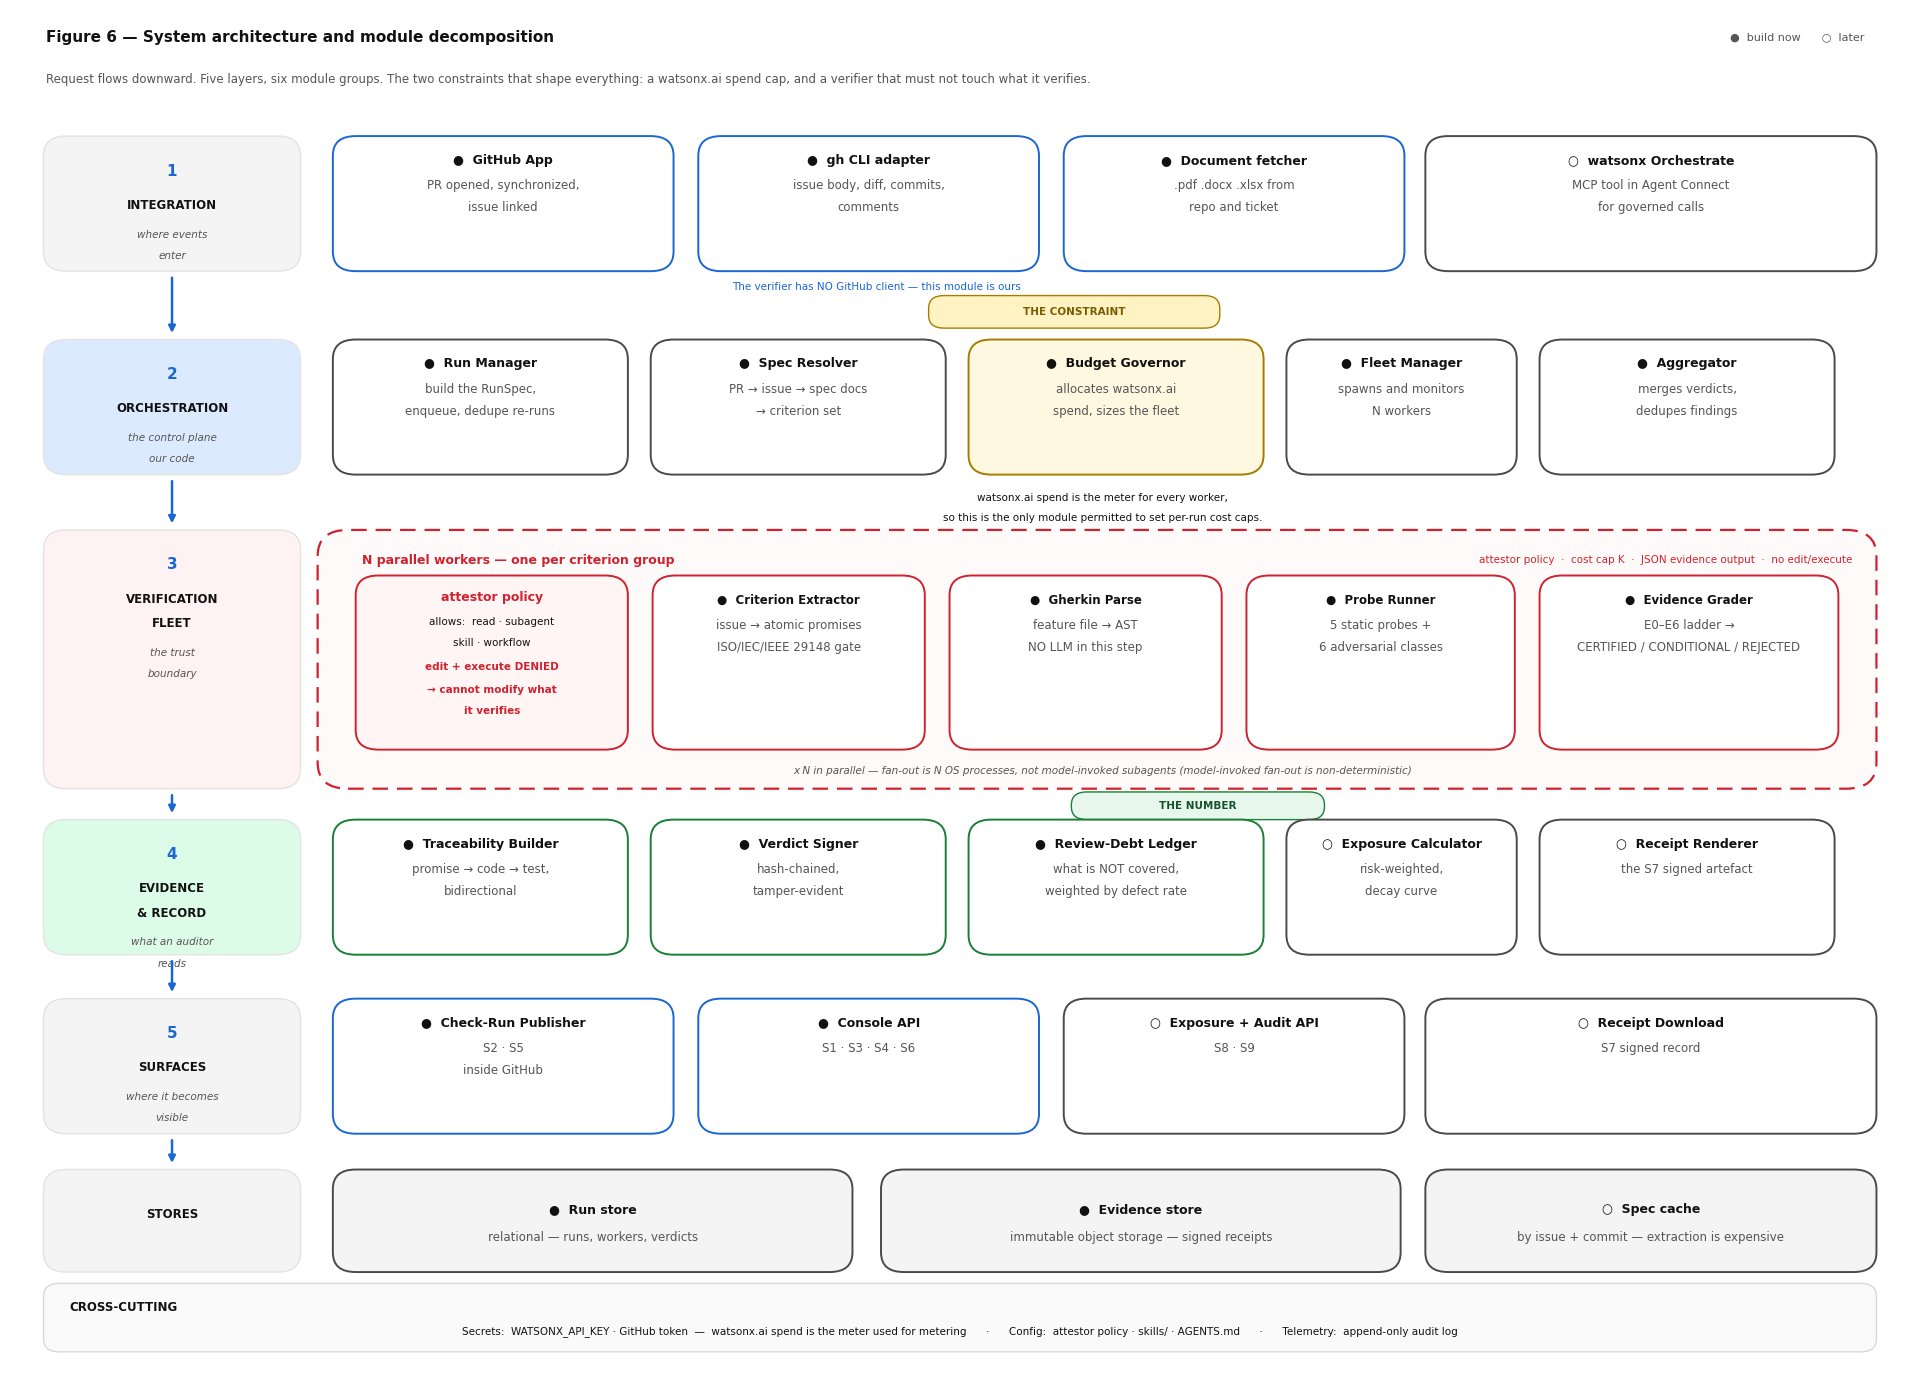
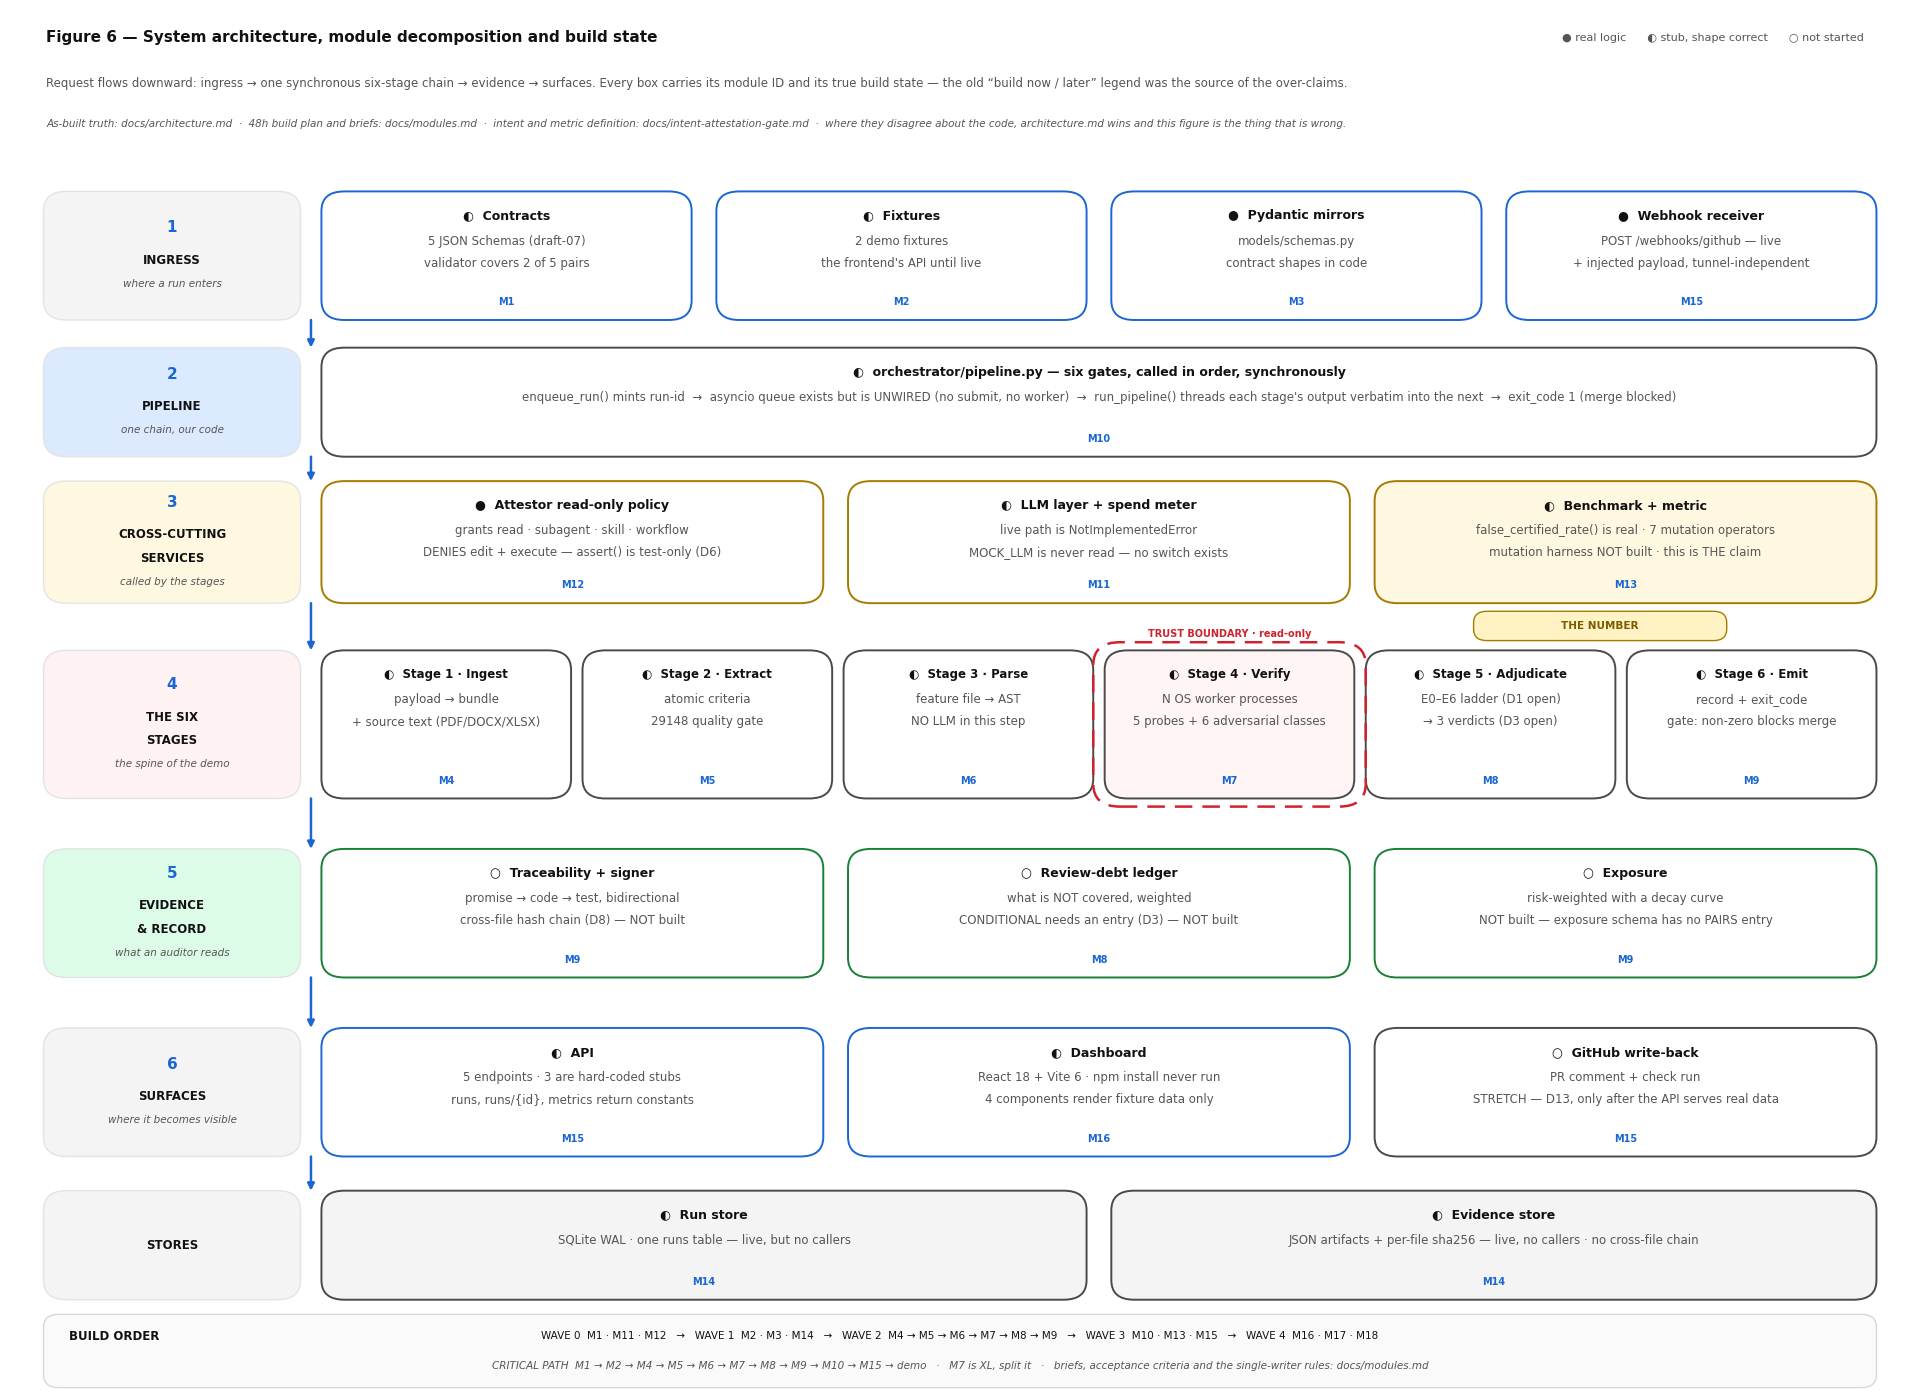
Docs: unify Figure 6 with architecture.md and modules.md
The diagram, the code record and the build plan described three different
systems. Figure 6 was the outlier: it had a *plan* legend (build now / later)
where it needed a *state* legend, so 14 boxes claimed "build now" including
GitHub App, a gh CLI adapter, an immutable object store and Check-Run
Publisher -- none of which exist, and the last of which is D13, a stretch.

Figure 6 (regenerated):
- Markers are now real logic / stub / not started, so it can never over-claim.
- Every box carries its module ID (M1-M16) plus its docs/modules.md wave.
  M1 and M2 stay separate boxes: modules.md 0.4 makes each the single writer
  of a different path, and one "M1 M2" box read as one owner.
- Added the Benchmark + metric box (M13). This closes the gap recorded at
  section 1 since Session 7: the false-certified rate and the 7 spec-mutation
  operators appeared nowhere in the figure.
- Added contracts, fixtures, Pydantic mirrors, the LLM layer and the attestor
  policy; added a build-order strip (waves + critical path) so the figure is
  a development map, not only a pitch collage.
- Removed as unbacked: watsonx Orchestrate (rejected -- its IBM Cloud default
  model is Groq-hosted, which breaks the watsonx.ai-only rule), GitHub App,
  gh CLI adapter, Spec cache, Receipt Renderer, Receipt Download.
- The precedence rule is printed on the figure, so a reader of the PNG alone
  knows architecture.md wins for as-built facts.

architecture.md:
[…]

diff --git a/docs/architecture.md b/docs/architecture.md
@@ -29,10 +29,25 @@ Async execution path (`backend/app/orchestrator/jobs.py`: in-process `asyncio.Qu
 without calling `submit()`, and nothing ever starts `worker()`. The synchronous
 `run_pipeline()` is the only path exercised (by `tests/test_scaffold.py`).
 
-Figure 6 (`docs/Figure-6-System-Architecture.png`) is the visual twin of this shape:
-6 stage boxes, `attestor` policy box, Budget Governor metering note, traceability /
-signer / ledger / exposure / receipt surfaces. Known figure gaps (kept as-is from
-Session 7/10): false-certified rate + 7 mutation classes appear nowhere in the figure.
+Figure 6 (`docs/Figure-6-System-Architecture.png`) is the visual map of this shape,
+generated by `gen_fig6_architecture.py` (never hand-edited). **Regenerated
+2026-09-27** to agree with this file and with `docs/modules.md`: every box now
+carries its module ID (M1–M18) and a build-state marker, and the two long-standing
+figure gaps are closed — the false-certified rate and the 7 spec-mutation
+operators now appear, as the **Benchmark + metric** box, and the over-claimed
+*build-now/later* markers were replaced by *real / stub / not started*.
+
+Boxes removed as unbacked: watsonx Orchestrate (rejected — its IBM Cloud default
+model is Groq-hosted, which breaks the watsonx.ai-only rule), GitHub App, gh CLI
+adapter, Spec cache, Receipt Renderer, Receipt Download. GitHub write-back stays
+but is marked `○` because **D13** makes it a stretch. Boxes added: contracts /
+fixtures, Pydantic mirrors, the LLM layer, the attestor policy, and the build-order
+strip carrying the waves and critical path.
+
+> Precedence, printed on the figure itself: **this file wins for as-built facts**,
+> `docs/intent-attestation-gate.md` wins for intent, and `docs/modules.md` owns the
+> gap between them. If the figure and this file ever disagree about the code, the
+> figure is what is wrong.
 
 ## 2. Entry point
 
@@ -57,7 +72,7 @@ at `/` **only if that directory exists** (API-first otherwise).
 | Stage 1 Ingest | `backend/app/gates/ingest.py::run(payload)` | stub: `{"stage": "ingest", "ok": True, "input_keys": sorted(payload.keys())}` |
 | Stage 2 Extract | `backend/app/gates/extract.py::run(bundle)` | stub: `{"stage": "extract", "ok": True, "criteria": []}`. Spec: atomic criteria, ISO/IEC/IEEE 29148 quality gate, untestable rejected |
 | Stage 3 Parse | `backend/app/gates/parse.py::run(criteria)` | stub: `{"stage": "parse", "ok": True, "ast": []}`. Spec: cucumber/gherkin → AST, **no model in this loop** |
-| Stage 4 Verify | `backend/app/gates/verify.py::run(ast)` | stub: `{"stage": "verify", "ok": True, "findings": []}`. Spec: N workers (OS processes, not model subagents), 5 static probes (`CODE_SEARCH`, `LOGIC_TRACE`, `STATE_CHECK`, `ERROR_PATH`, `ABSENCE_CHECK`) + adversarial pass over 7 failure classes; LLM via watsonx.ai only |
+| Stage 4 Verify | `backend/app/gates/verify.py::run(ast)` | stub: `{"stage": "verify", "ok": True, "findings": []}`. Spec: N workers (OS processes, not model subagents), 5 static probes (`CODE_SEARCH`, `LOGIC_TRACE`, `STATE_CHECK`, `ERROR_PATH`, `ABSENCE_CHECK`) + adversarial pass over **6 named** failure classes (boundary · omission · contradiction · implicit · negative · concurrency); LLM via watsonx.ai only |
 | Stage 5 Adjudicate | `backend/app/gates/adjudicate.py::run(findings)` | stub: `{"stage": "adjudicate", "ok": True, "verdict": "PENDING"}`. Spec: E0–E6 ladder → `CERTIFIED` / `CONDITIONAL` / `REJECTED` |
 | Stage 6 Emit+gate | `backend/app/gates/emit.py::run(verdict)` | stub: `{"stage": "emit", "ok": True, "exit_code": 1, "record": verdict}`. Spec: traceability matrix, signed hash-chained record, debt ledger, risk-weighted exposure; non-zero exit blocks merge |
 | Read-only policy | `backend/app/attestor/policy.py` — `GRANTS={read,subagent,skill,workflow}`, `DENIES={edit,execute}`, `assert_read_only(granted)` | raises `PermissionError` on leaked denies or missing grants. Enforced in tests only today, not in the pipeline path (see §11) |
@@ -98,7 +113,14 @@ No auth, no SSE/polling, no GitHub comment/check-run write-back yet (all were ol
 ## 7. LLM layer + spend discipline
 
 - All verification reasoning goes through `llm/watsonx_client.py::complete()`. No other model call sites exist.
-- `MOCK_LLM=true` selects `mock_client` (deterministic, zero spend). Live path without `WATSONX_API_KEY` fails loud with `RuntimeError` (fixture-backed fallback, never silent).
+- **Dual-mode is declared but not wired.** `MOCK_LLM` is read *nowhere* in `backend/app` — not by
+  either client, not by the pipeline, not by any router. `config.py` parses it, `watsonx_client.py`
+  only names it in its error string, and `mock_client.py` is imported by nothing but
+  `tests/test_llm.py`. So the previous wording here — "`MOCK_LLM=true` selects `mock_client`" —
+  **was false and is corrected here.** The demo-survival rule (AGENTS.md Convention 4,
+  `modules.md` rule 4) currently survives only because `mock_client` is the sole implemented
+  path, not because a switch exists. See §11.9.
+- Live path without `WATSONX_API_KEY` fails loud with `RuntimeError` (never silent).
 - Hour-one spike: **research complete** as of 2026-09-27 — auth pattern, endpoint, structured-output mode, rate limiting, and the spend meter are recorded in `docs/watsonx-integration.md`. **Code not written:** the IAM token exchange (note: `expires_in` is 3600s, so the token cache must be TTL-aware) and the generation call remain `NotImplementedError`. Two spike items still need a provisioned account: the model id and the burn plan.
 
 ## 8. Read-only attestor (differentiator, as coded)
@@ -132,6 +154,7 @@ wired yet.
 6. §2 `_dist` path defect (three-level climb, should be two).
 7. Missing vs spec: GitHub write-back (comments + check runs), review-debt ledger, risk-weighted exposure decay curve, signed cross-file hash chain, SSE/polling, auth, real demo-repo target.
 8. Dependencies pinned in `backend/requirements.txt`: fastapi 0.135.3, uvicorn 0.44.0, pydantic 2.13.0, httpx 0.28.1, jsonschema 4.26.0, pytest 9.0.3, pytest-asyncio 1.4.0. Smoke tests in `backend/tests/test_scaffold.py` (pipeline stub path, policy guard, metric-empty) are the only coverage.
+9. **Dual-mode is not wired** (found 2026-09-27 while reconciling Figure 6 — previously unrecorded). `MOCK_LLM` has no reader in `backend/app`, so nothing selects between `mock_client` and the live client; `mock_client` is unreachable from product code. `modules.md` rule 4 and AGENTS.md Convention 4 both assume a switch that does not exist. Owner: **M11**, and it is a prerequisite for M7's fan-out, not a nicety.
 
 ## 12. Monorepo layout (as on disk)
 
@@ -212,3 +235,80 @@ frontend/{index.html,package.json,vite.config.js}
 - **Correction worth carrying:** an earlier claim in this session that the IAM access token
   lasts 30 days and needs no refresh was wrong — `expires_in` is 3600s. A permanent token
   cache would have passed every test in the suite and failed the live demo at minute 61.
+
+### 2026-09-27 — Session 16: figure unified with this file and `modules.md`
+- Instruction: the architecture diagram and this file were not aligned; unify them so the
+  team can develop from one. **Docs + one generated PNG. No product code, contracts,
+  fixtures, dependencies or endpoints touched.** §11 gained a ninth entry (§11.9, dual-mode
+  unwired) — nothing was closed.
+- **Recovered the generator first.** `gen_fig6_architecture.py` had been committed in
+  `56c2911` and deleted in `d0beada`; the figure was therefore unregeneratable and any fix
+  would have meant hand-painting a PNG. Restored with
+  `git checkout 56c2911 -- gen_fig6_architecture.py`, then rewritten. Original PNG
+  (md5 `aeb47178`) backed up to `/tmp/opencode/fig6-backup/`.
+- **Root cause of the misalignment: the figure had a *plan* legend (`● build now / ○ later`)
+  where it needed a *state* legend.** A plan legend marks intent, so 14 boxes claimed
+  "build now" including GitHub App, gh CLI adapter, an immutable object store and
+  Check-Run Publisher — none of which exist, and the last of which is **D13**, a stretch.
+  Markers are now `● real logic / ◐ stub / ○ not started`, and every box carries its
+  module ID from `docs/modules.md` §0.2.
+- Reconciled the inventory against the code and against `modules.md`: **added** contracts /
+  fixtures, Pydantic mirrors, the LLM layer, the attestor policy, and the **Benchmark +
+  metric** box (M13) — which closes the figure gap this file recorded at §1 since
+  Session 7, namely that the false-certified rate and the 7 spec-mutation operators
+  appeared nowhere. **Removed** watsonx Orchestrate, GitHub App, gh CLI adapter, Spec
+  cache, Receipt Renderer, Receipt Download.
+- **One correction in this file's favour of the figure:** §3's Stage 4 row said the
+  adversarial pass covers "7 failure classes". It is **six** (boundary · omission ·
+  contradiction · implicit · negative · concurrency); the 7th is undefined in the source
+  (**D2**, `modules.md` §1.6). The old figure was right and this file was wrong. The
+  seven *spec-mutation operators* in `false_certified.py` are a different list and the two
+  must not be conflated.
+- **Two generator defects fixed, both inherited:** the layer-label chips flowed their
+  caption downward without checking the box height, so captions spilled *below* their own
+  box and the flow arrows — centred on the same x — ran straight through them. `layer_label`
+  now computes the height its text needs, **raises** if the box is too short (guard
+  exercised and confirmed to fire), and centres the block vertically. Arrows moved into
+  the 1.4-unit channel between the label column and the content area. Layout is now laid
+  out bottom-up with every row gap asserted positive.
+- The **provenance and precedence rule is now printed on the figure itself**, so a reader
+  of the PNG alone knows that this file wins for as-built facts and that the figure is the
+  artifact that is wrong if they disagree. Figure 6 also gained a **build-order strip**
+  (waves + critical path) so it is a development map, not only a pitch collage.
+- Verified: generator runs green with the `fits()`-style overflow check intact, output
+  visually inspected, and the 79-test suite + 2-pair contract validator re-run green to
+  prove no code drift.
+
+**Self-correction, same day.** The "verified" claim above was initially too strong. The
+first audit was a hand-picked list of 12 claims, not an exhaustive check of the ~38 text
+lines the figure actually asserts. Re-auditing every line mechanically against
+`architecture.md` / `modules.md` / `intent-attestation-gate.md` / `AGENTS.md` / the source
+tree found **three real defects, two of them mine**:
+
+1. **Figure claimed "5 endpoints · 2 are hard-coded stubs." Wrong — it is 3.**
+   `runs.py` returns `{"runs": []}` and `{"run_id", "status": "pending"}`; `metrics.py`
+   returns a null-rate envelope. `architecture.md` §11.2 always said three. Corrected on
+   the figure, and the line now names all three paths.
+2. **Figure said `mock_client` is "the only working path," implying a mode switch.**
+   There is no switch: `MOCK_LLM` is read by nothing in `backend/app`. This is recorded
+   as **§11.9** and the false claim in §7 is corrected — see the next bullet.
+3. **`architecture.md` §7 contained a false statement of its own** (pre-existing, not
+   introduced here): "`MOCK_LLM=true` selects `mock_client`." Nothing selects it.
+   `mock_client` is imported only by `tests/test_llm.py`. Corrected in §7, and the
+   consequence recorded: the demo-survival rule survives by accident — `mock_client` is
+   simply the only implemented path — not by design. `modules.md` rule 4 and AGENTS.md
+   Convention 4 both assume a switch that does not exist, so this is a real prerequisite
+   for M7's fan-out, not cosmetic.
+
+Two further changes came out of the re-audit: **M1 and M2 are now separate ingress boxes**
+(one box labelled "M1 M2" read as one owner, but `modules.md` §0.4 makes each the single
+writer of a different path — exactly the collision this map exists to prevent), and the
+doc-fetcher line was aligned to the source's own wording (`PDF/DOCX/XLSX`,
+`intent-attestation-gate.md:30`) instead of my paraphrase. One rewording of mine
+("tunnel-free" for "tunnel-independent") was reverted because it broke the traceable link
+to the source wording.
+
+Final state: **38/38 box-text lines sourced, M1–M16 in boxes, M17+M18 in the build strip,
+22 boxes, render byte-identical across two runs, 79/79 pytest + validator green.** The
+audit that produced this is re-runnable — it is the `sourcing` check in the session, and
+it should be repeated whenever the figure or a module boundary changes.
